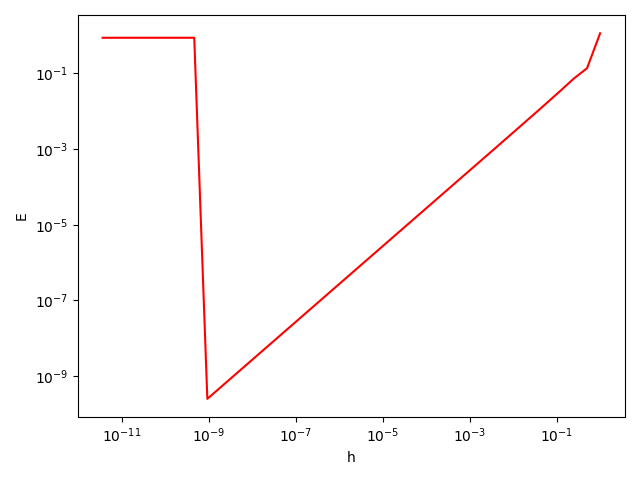
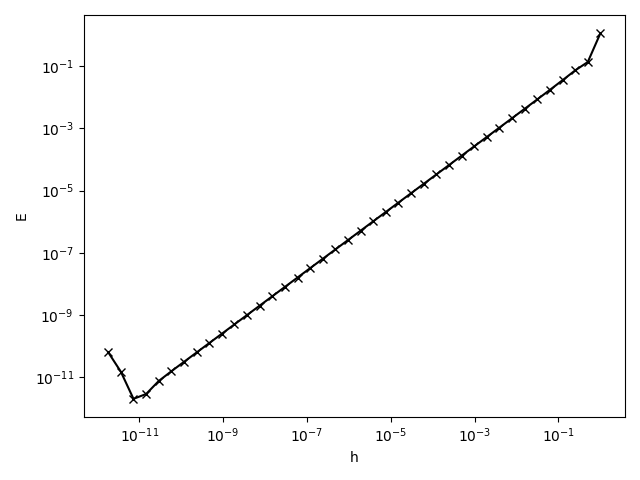
enalyza chyby Benes

diff --git a/NROPR/main.cpp b/NROPR/main.cpp
@@ -21,11 +21,11 @@ double initCondition()
 
 double explicitEuler(double h, double start, double end)
 {
-    int n = int((end - start)/h);
+    long n = (end - start)/h;
 
     double y = initCondition();
 
-    for (int i = 0; i < n; i++)
+    for (long i = 0; i < n; i++)
     {
         y += h*F(y);
     }
@@ -37,7 +37,7 @@ int main()
 {
     std::ofstream writeToFile("results.txt");
 
-    for (int i = 1; i < 40; i++)
+    for (int i = 1; i < 42; i++)
     {
         double h = (2.0/(pow(2.0,i)));
         double result = explicitEuler(h, 0.0, 1.0);
@@ -45,7 +45,9 @@ int main()
         double E = std::fabs(analytical(1.0) - result);
 
         writeToFile << h << "," << E << std::endl;
-    }    
+
+        std::cout << i <<". iterace" << std::endl;
+    }
 
     return 0;
 }

diff --git a/NROPR/plot.py b/NROPR/plot.py
@@ -18,7 +18,7 @@ f.close()
 
 plt.figure()
 
-plt.plot(h, E, "r-")
+plt.plot(h, E, "kx-")
 plt.yscale("log")
 plt.xscale("log")
 plt.ylabel("E")
